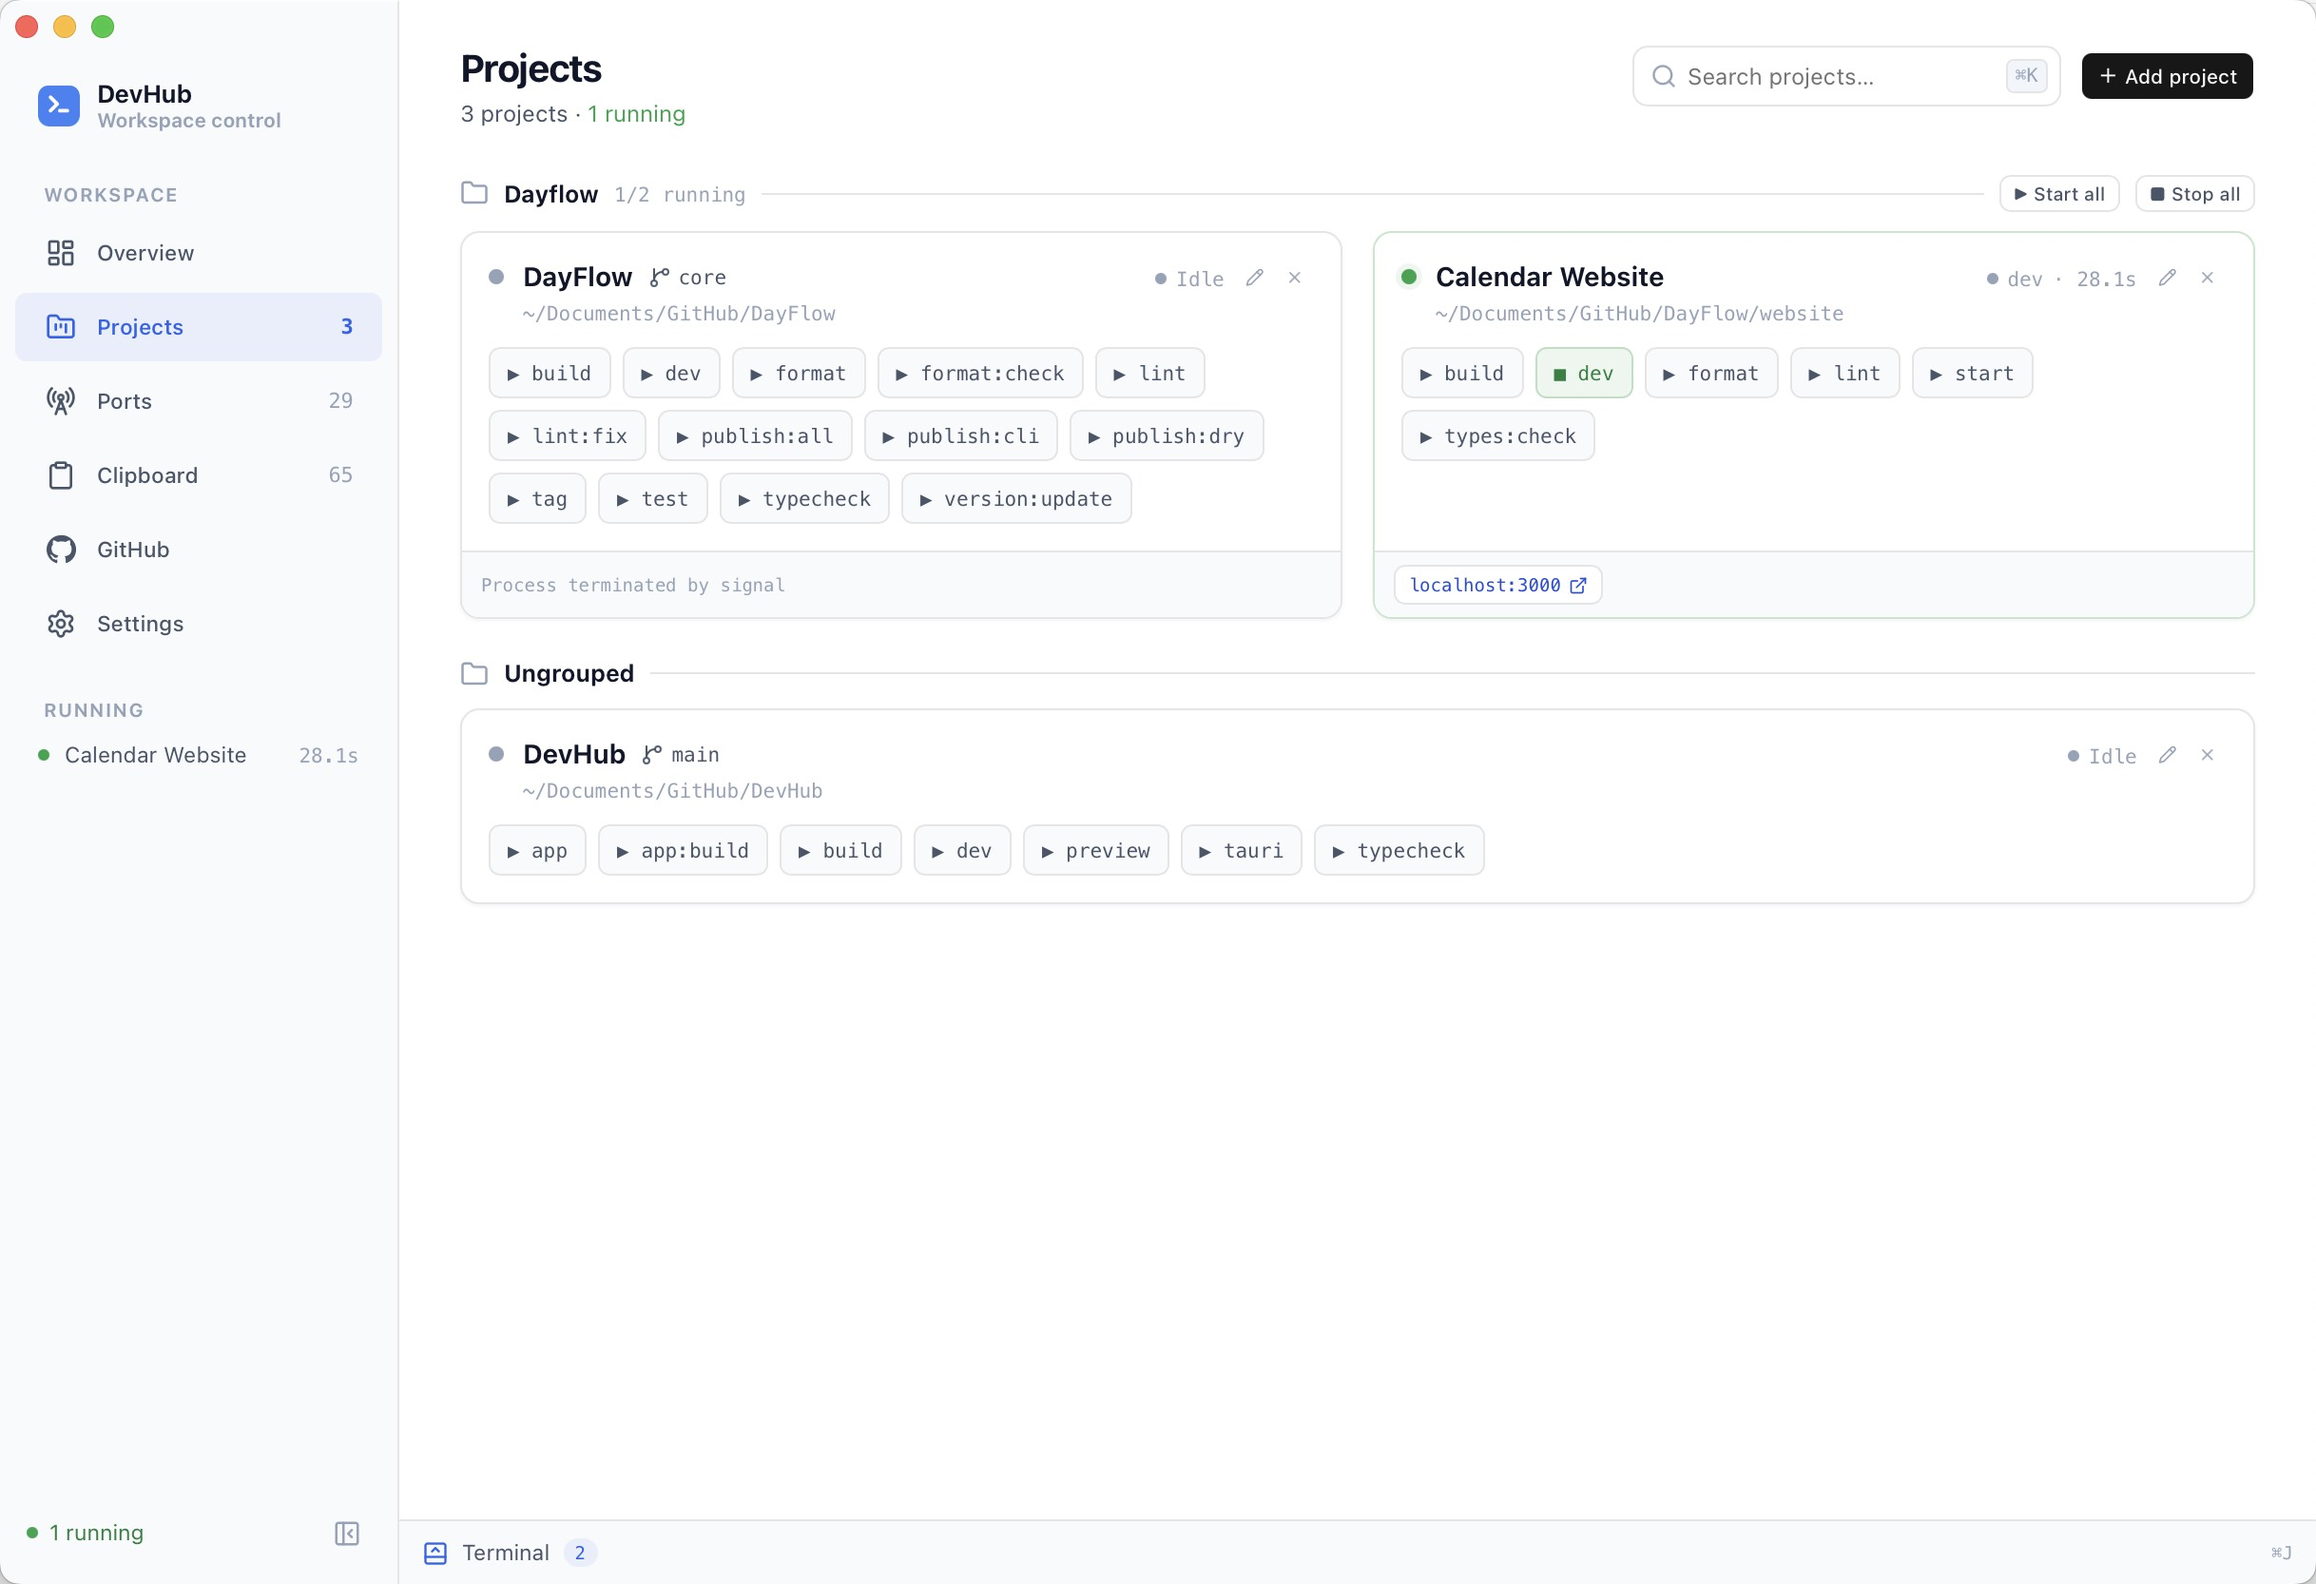
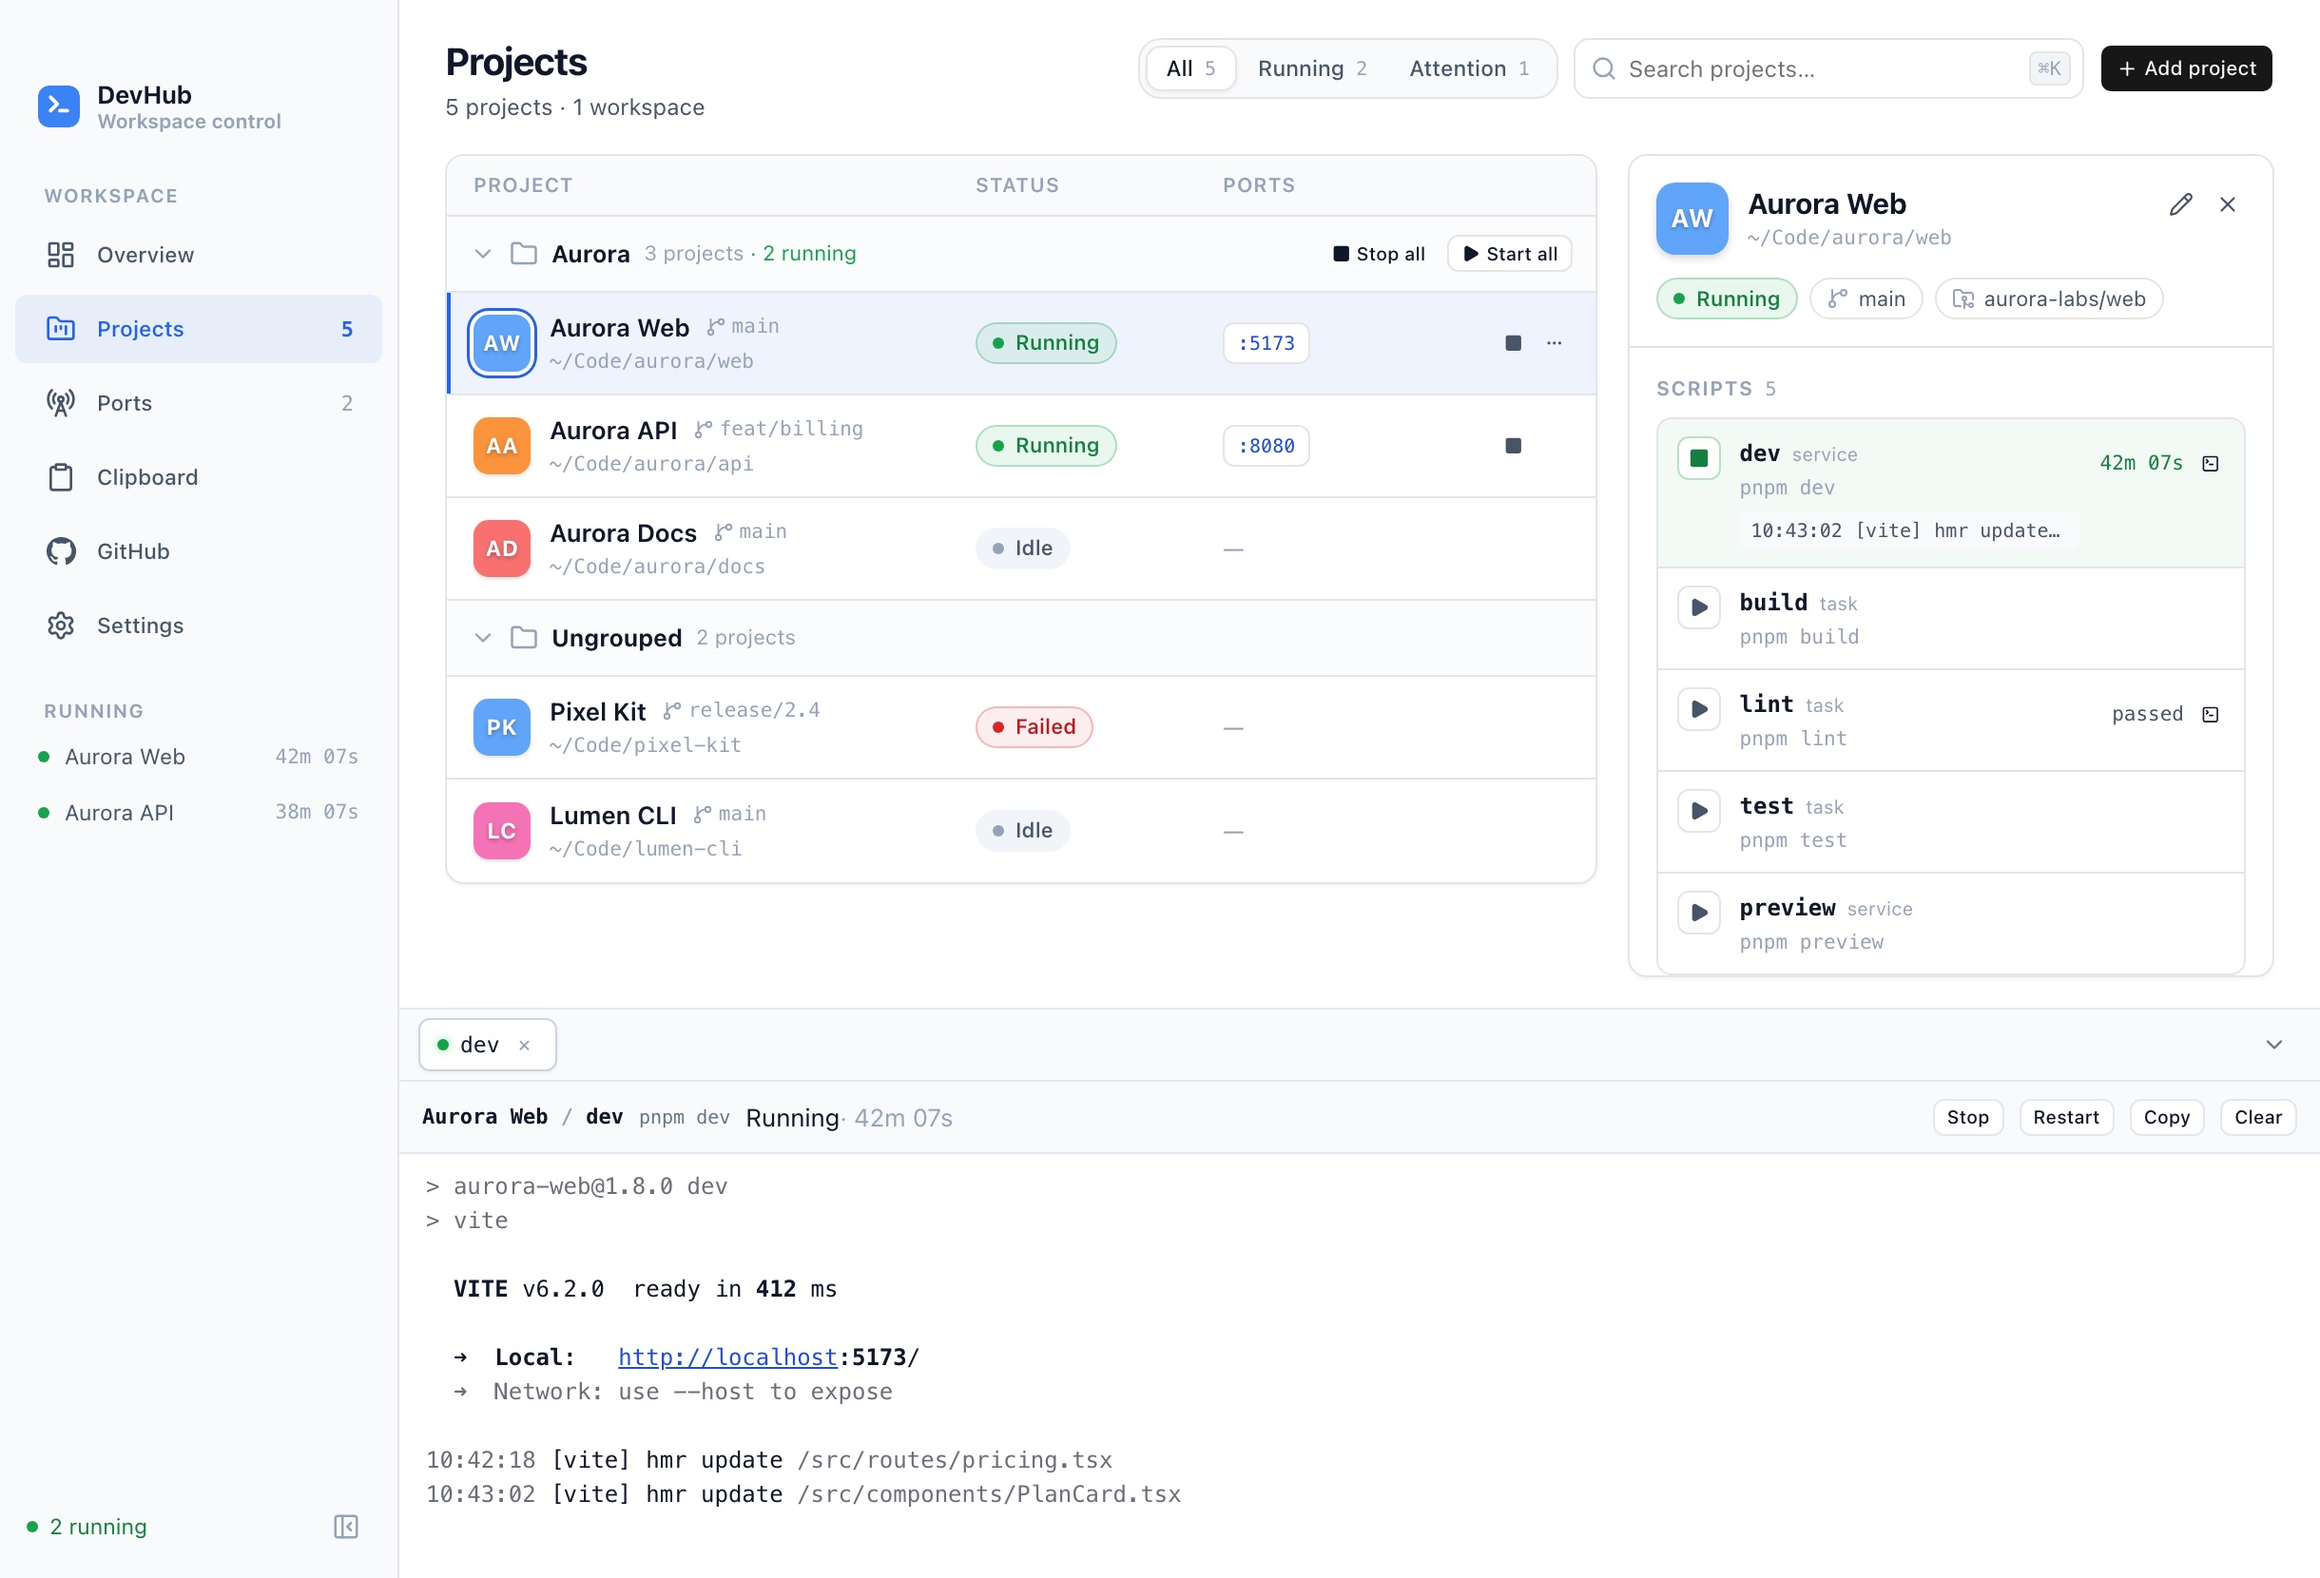
docs: refresh the Projects screenshot with demo data

diff --git a/README.md b/README.md
@@ -74,7 +74,7 @@ Open a repository folder to browse its latest issues without leaving the board.
 
 ### Projects
 
-Run project commands and follow their output.
+Filter projects by status, start or stop a whole workspace, and open a project to run its scripts and follow live output.
 
 ![DevHub project manager and command output](public/devhub-projects.jpg)
 
